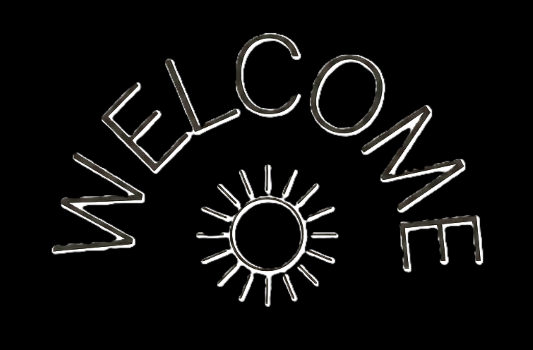
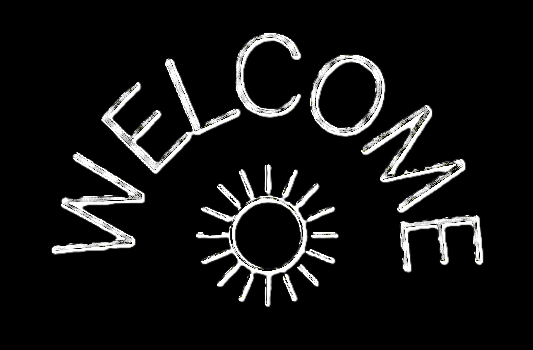
Update welcome images and modify intro page layout
- Replaced welcome-2.png with welcome.png in index-intro.html for improved visuals.
- Updated welcome-1.png and welcome.JPG with new versions.
- Removed SplitType dependency from introgasp.js and refactored animation logic for better performance.
- Adjusted animation durations and easing functions for a smoother intro experience.
- Cleaned up unused code related to SplitType and optimized GSAP animations.

diff --git a/public/js/introgasp.js b/public/js/introgasp.js
@@ -1,7 +1,6 @@
-/* global SplitType, Lenis */
+/* global Lenis */
 
 let lenis;
-let splitInstance;
 
 let lastInitTimestamp = 0;
 let introInitState = "idle";
@@ -11,20 +10,17 @@ const THEME_REPLAY_DELAY_MS = 100;
 const INTRO_PAGE_SELECTOR = 'body[data-page="intro"]';
 const INTRO_ANIMATION_TARGET =
   'body[data-page="intro"] main p:not(.wrapper-gradient-text)';
-const INTRO_SPLIT_TARGET =
-  'body[data-page="intro"] main p:not(.wrapper-gradient-text, .fancy-quote, [data-split="false"])';
 const WRAPPER_GRADIENT_TARGET =
   'body[data-page="intro"] .wrapper-gradient-text';
 const WRAPPER_GRADIENT_WORD_TARGET =
   'body[data-page="intro"] .wrapper-gradient-text .text-layer';
 const INTRO_WORDS_TARGET = 'body[data-page="intro"] .text-with-animation span';
 const INTRO_HEADER_TARGET = 'body[data-page="intro"] header';
-const HERO_TEXT_EASE_INTRO = "cubic-bezier(0.22, 1, 0.36, 1)";
-const HERO_REVEAL_DURATION_INTRO = 1.7;
-const HERO_REVEAL_STAGGER_INTRO = 0.18;
-const HERO_REVEAL_DELAY_INTRO = 0.18;
-const INTRO_SLIDE_OFFSET = "35vw";
-const INTRO_HEADER_REVEAL_DURATION = 0.9;
+const HERO_REVEAL_DELAY_INTRO = 0.08;
+const INTRO_TEXT_REVEAL_DURATION = 0.72;
+const INTRO_TEXT_REVEAL_EASE = "power2.out";
+const INTRO_TEXT_REVEAL_STAGGER = 0.2;
+const INTRO_TEXT_REVEAL_OFFSET = 10;
 const INTRO_HEADER_REVEAL_DELAY = 0.05;
 
 if (typeof document !== "undefined") {
@@ -64,35 +60,12 @@ function resetIntroAnimationState() {
   if (gsapLib) {
     [
       INTRO_ANIMATION_TARGET,
-      `${INTRO_ANIMATION_TARGET} .line`,
-      `${INTRO_ANIMATION_TARGET} .line span`,
       INTRO_WORDS_TARGET,
       WRAPPER_GRADIENT_TARGET,
       WRAPPER_GRADIENT_WORD_TARGET,
       INTRO_HEADER_TARGET,
     ].forEach((target) => gsapLib.killTweensOf(target));
   }
-
-  if (splitInstance) {
-    splitInstance.revert();
-    splitInstance = null;
-  }
-
-  document
-    .querySelectorAll(`${INTRO_ANIMATION_TARGET} .line`)
-    .forEach((line) => {
-      line.style.display = "";
-      line.style.overflow = "";
-    });
-
-  document
-    .querySelectorAll(`${INTRO_ANIMATION_TARGET} .line span`)
-    .forEach((span) => {
-      span.style.transform = "";
-      span.style.opacity = "";
-      span.style.removeProperty("transform");
-      span.style.removeProperty("opacity");
-    });
 
   document.querySelectorAll(INTRO_ANIMATION_TARGET).forEach((element) => {
     element.style.opacity = "";
@@ -121,117 +94,52 @@ function initializeAnimations() {
 
   const gsapLib = typeof window !== "undefined" ? window.gsap : null;
   resetIntroAnimationState();
-  if (!gsapLib || typeof SplitType === "undefined") {
+  if (!gsapLib) {
     revealIntroContent();
     return;
   }
 
-  if (splitInstance) {
-    splitInstance.revert();
-    splitInstance = null;
-  }
-
-  splitInstance = new SplitType(INTRO_SPLIT_TARGET, {
-    types: "lines",
-    tagName: "div",
-    lineClass: "line",
-  });
-
   if (hasElements(INTRO_HEADER_TARGET)) {
-    gsapLib.set(INTRO_HEADER_TARGET, { y: "-18vh", opacity: 0 });
+    gsapLib.set(INTRO_HEADER_TARGET, { y: INTRO_TEXT_REVEAL_OFFSET, opacity: 0 });
     gsapLib.to(INTRO_HEADER_TARGET, {
       y: 0,
       opacity: 1,
-      duration: INTRO_HEADER_REVEAL_DURATION,
-      ease: "power3.out",
+      duration: INTRO_TEXT_REVEAL_DURATION,
+      ease: INTRO_TEXT_REVEAL_EASE,
       delay: INTRO_HEADER_REVEAL_DELAY,
       overwrite: "auto",
     });
   }
 
-  splitInstance.lines.forEach((line) => {
-    const content = line.innerHTML;
-    line.innerHTML = `<span>${content}</span>`;
+  gsapLib.set(WRAPPER_GRADIENT_WORD_TARGET, { x: 0, y: 0, opacity: 1 });
+
+  const contentTimeline = gsapLib.timeline({
+    delay: HERO_REVEAL_DELAY_INTRO,
+    defaults: { ease: INTRO_TEXT_REVEAL_EASE, overwrite: "auto" },
   });
+  const headingTarget = WRAPPER_GRADIENT_TARGET;
 
-  // .line is the clip container; .line span starts below and reveals upward
-  gsapLib.set(`${INTRO_ANIMATION_TARGET} .line`, {
-    display: "block",
-    overflow: "hidden",
-  });
-
-  gsapLib.set(`${INTRO_ANIMATION_TARGET} .line span`, {
-    y: "100%",
-    opacity: 0,
-  });
-
-  gsapLib.to(`${INTRO_ANIMATION_TARGET} .line span`, {
-    y: "0%",
-    opacity: 1,
-    duration: 0.9,
-    stagger: 0.16,
-    ease: "power3.out",
-    delay: 0.12,
-  });
-
-  // Fade in the parent paragraphs at the same time
-  gsapLib.to(INTRO_ANIMATION_TARGET, {
-    opacity: 1,
-    visibility: "visible",
-    duration: 0.55,
-    stagger: 0.16,
-    ease: "power2.out",
-    delay: 0.08,
-  });
-
-  gsapLib.set(WRAPPER_GRADIENT_TARGET, { x: 0, opacity: 1 });
-
-  gsapLib.set(WRAPPER_GRADIENT_WORD_TARGET, {
-    x: INTRO_SLIDE_OFFSET,
-    opacity: 0,
-  });
-
-  // Match the side-entry feel used by the hero text animation.
-  if (hasElements(INTRO_WORDS_TARGET)) {
-    gsapLib.set(INTRO_WORDS_TARGET, {
-      x: INTRO_SLIDE_OFFSET,
-      opacity: 0,
-      visibility: "hidden",
-    });
-
-    gsapLib.to(INTRO_WORDS_TARGET, {
+  if (hasElements(headingTarget)) {
+    contentTimeline.fromTo(headingTarget, {
       x: 0,
+      y: INTRO_TEXT_REVEAL_OFFSET,
+      opacity: 0,
+    }, {
+      x: 0,
+      y: 0,
+      opacity: 1,
+      duration: INTRO_TEXT_REVEAL_DURATION,
+    });
+  }
+
+  document.querySelectorAll(INTRO_ANIMATION_TARGET).forEach((paragraph) => {
+    contentTimeline.fromTo(paragraph, { y: INTRO_TEXT_REVEAL_OFFSET, opacity: 0 }, {
+      y: 0,
       opacity: 1,
       visibility: "visible",
-      duration: HERO_REVEAL_DURATION_INTRO,
-      ease: HERO_TEXT_EASE_INTRO,
-      delay: HERO_REVEAL_DELAY_INTRO,
-      stagger: HERO_REVEAL_STAGGER_INTRO,
-      overwrite: "auto",
-    });
-  }
-
-  // The parent remains in place; the updated single text layer owns the entry motion.
-  if (hasElements(WRAPPER_GRADIENT_WORD_TARGET)) {
-    gsapLib.to(WRAPPER_GRADIENT_WORD_TARGET, {
-      x: 0,
-      opacity: 1,
-      duration: HERO_REVEAL_DURATION_INTRO,
-      ease: HERO_TEXT_EASE_INTRO,
-      delay: HERO_REVEAL_DELAY_INTRO,
-      stagger: HERO_REVEAL_STAGGER_INTRO,
-      overwrite: "auto",
-    });
-  } else if (hasElements(WRAPPER_GRADIENT_TARGET)) {
-    gsapLib.to(WRAPPER_GRADIENT_TARGET, {
-      x: 0,
-      opacity: 1,
-      duration: HERO_REVEAL_DURATION_INTRO,
-      ease: HERO_TEXT_EASE_INTRO,
-      delay: HERO_REVEAL_DELAY_INTRO,
-      overwrite: "auto",
-    });
-  }
+      duration: INTRO_TEXT_REVEAL_DURATION,
+    }, `<+=${INTRO_TEXT_REVEAL_STAGGER}`);
+  });
 
   // Remove any inline overflow styles from .text-layer elements
   document.querySelectorAll(".text-layer").forEach((el) => {
@@ -344,10 +252,6 @@ function initPage() {
     if (lenis) {
       lenis.destroy();
       lenis = null;
-    }
-    if (splitInstance) {
-      splitInstance.revert();
-      splitInstance = null;
     }
     introInitState = "idle";
     return;

diff --git a/public/css/index-intro.css b/public/css/index-intro.css
@@ -1,10 +1,11 @@
+/* stylelint-disable media-feature-range-notation */
 :root {
    --card-radius: 2em;
    --card-ease: cubic-bezier(0.22, 1, 0.36, 1);
    --card-transition: 250ms var(--card-ease);
    --card-active-scale: 1.03;
    --card-front-active-transform: translateY(-8%) scale(0.86);
-   --card-portrait-active-opacity: 0.3;
+   --card-portrait-active-opacity: 0.4;
    --card-portrait-active-transform: scale(0.7);
    --card-background-active-transform: scale(1);
    --card-background-image-active-transform: scale(1);
@@ -13,11 +14,7 @@
 .wrapper {
    display: grid;
    grid-template-rows:1fr;
-   font-size: var(--fs-01);
-
-   @media (min-width: 768px) {
-      font-size: var(--fs-0);
-   }
+font-size: var(--fs-0);
 }
 
 .content {
@@ -25,6 +22,7 @@
     place-content: center;
     place-items: center;
     min-block-size: 0;
+    color: var(--text-color);
 }
 
 .game {
@@ -91,6 +89,10 @@
    transition: opacity 180ms ease, visibility 180ms ease;
 }
 
+.stats .viewers{
+   font-size: var(--fs-1);
+}
+
 .back {
    position: absolute;
    inset: auto 0 0;
@@ -111,6 +113,10 @@
    text-align: center;
 }
 
+.back .viewers{
+   font-size: var(--fs-1);
+}
+
 .background {
    position: absolute;
    inset: 2% 2% 35%;
@@ -128,10 +134,10 @@
    display: block;
    width: 400px;
    height: auto;
-   object-fit: contain;
+   object-fit: cover;
    object-position: center;
    transition: transform var(--card-transition);
-   border-radius: 50%;
+z-index:100;
 }
 
 footer {
@@ -140,7 +146,7 @@ footer {
    align-items: center;
 }
 
-@media (min-width: 48rem) {
+@media (width >= 48rem) {
    .game-stat {
       font-size: var(--fs-3);
    }

diff --git a/public/index-intro.html b/public/index-intro.html
@@ -53,7 +53,7 @@
           <p class="viewers">.... click (again)</p>
           </div>
           <div class="background">
-            <img src="images/welcome-2.png" alt="raffaele" width="533" height="350" />
+            <img src="images/welcome.png" alt="raffaele" width="200" height="145" />
           </div>
         </div>
       </a>
